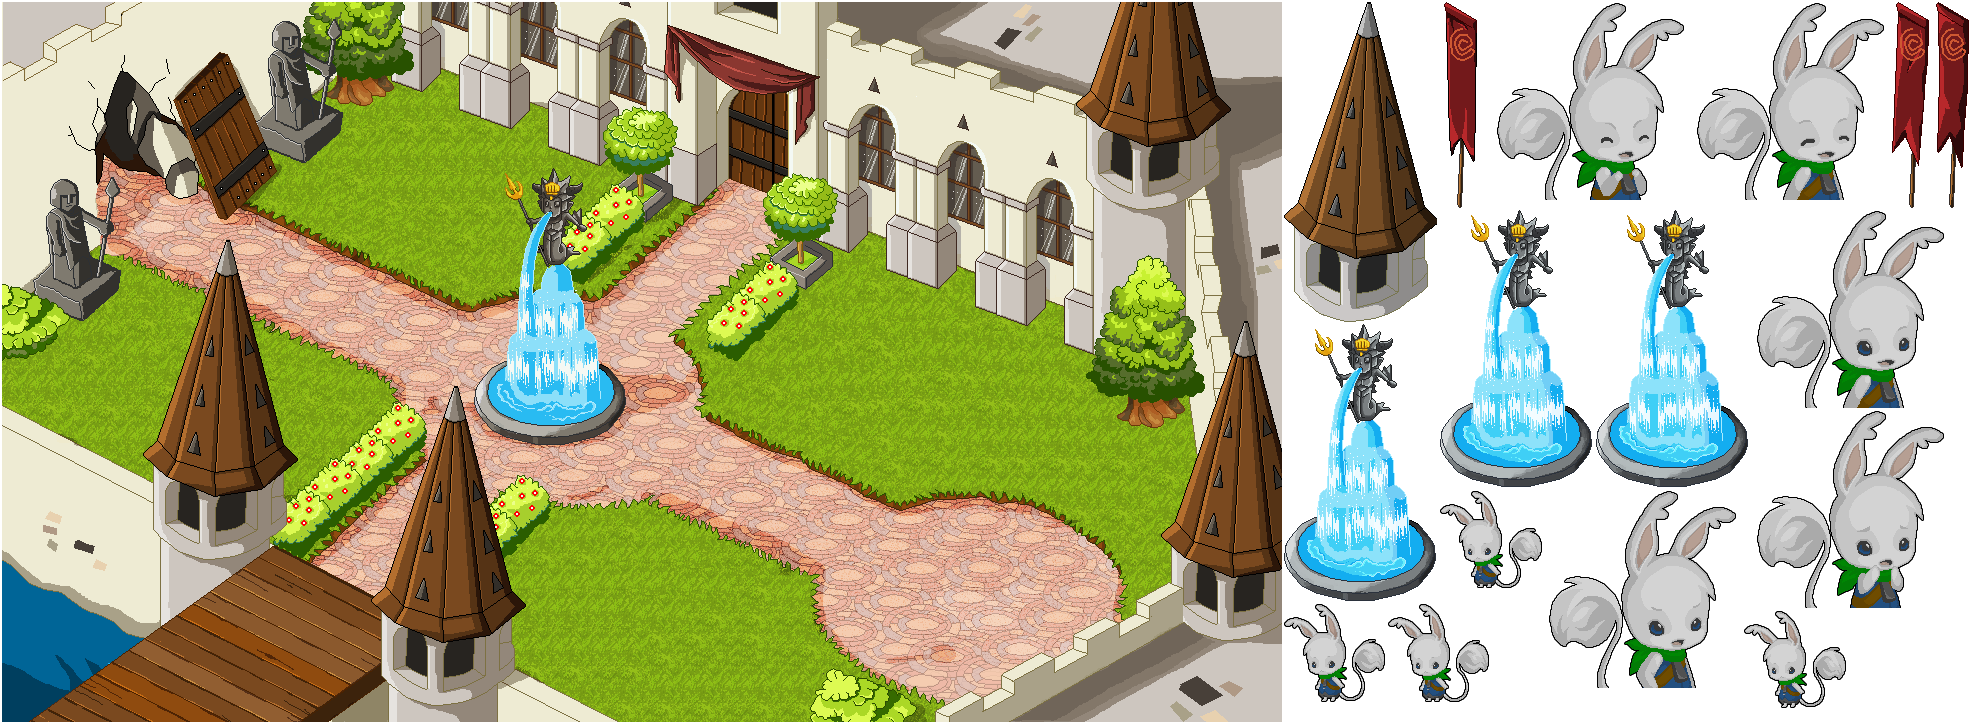
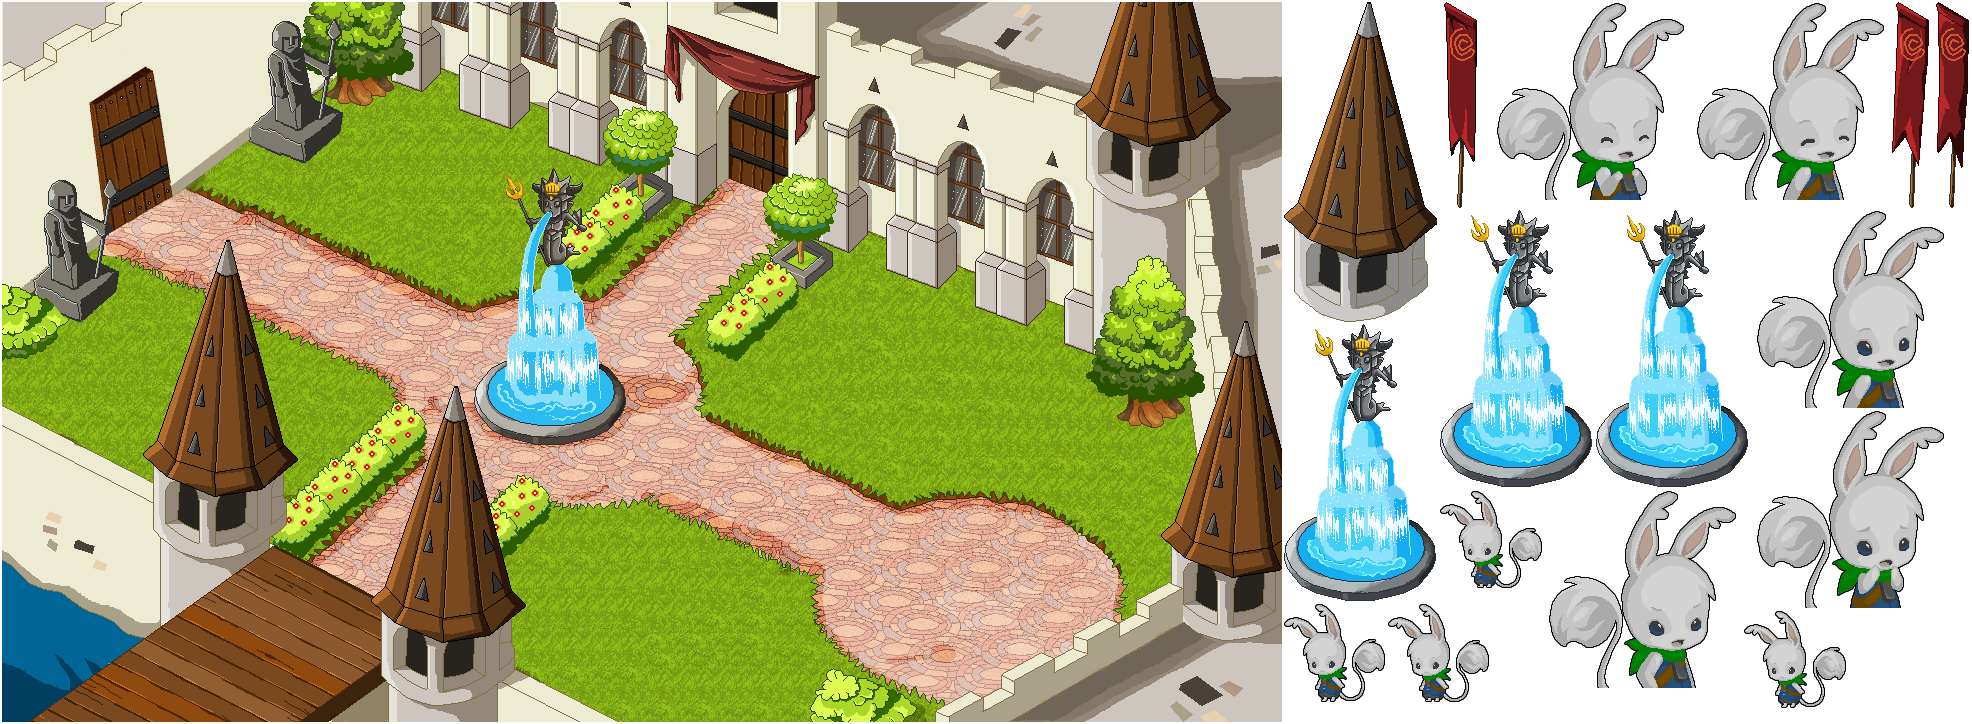
Fixed the academy gate

Changed region(s): [[0.0, 0.0608, 0.1547, 0.4558]]

diff --git a/oldprodigy/0-0-0/js/game.min - Copy.js b/oldprodigy/0-0-0/js/game.min - Copy.js
@@ -5464,9 +5464,10 @@ var Quests = function() {
 		return Util.isDefined(this.data[e]) ? this.data[e][t] : null
 	}, e.prototype.startQuestLine = function(e) {
 		Util.isDefined(this.data[e]) ? this.data[e].C = 1 : this.data[e] = {
+			C: 1
 		}
 	}, e.prototype.startQuest = function(e, t) {
-		return Util.isDefined(this.data[e]) ? this.data[e].C == t && Util.isDefined(this.data[e].A) : !1
+		Util.isDefined(this.data[e]) && (this.data[e].B = 1)
 	}, e.prototype.completeQuest = function(e, t, a, i) {
 		if (Util.isDefined(this.data[e]) && this.data[e].C == t) {
 			if (Util.isDefined(i.req))
@@ -6123,6 +6124,66 @@ var SystemMenu = function() {
 			}, 800, Phaser.Easing.Quadratic.Out).to({
 				y: 140
 			}, 400, Phaser.Easing.Quadratic.InOut).start(), this.backButton = TextButton.createBackButton(this.game, this, 330, this.game.world.height - 70, this.openMap.bind(this)), this.backButton.visible = !1, this.setupComplete = !0
+		}, e.prototype.createQuestElement = function() {
+			this.quests = new Element(this.game, this, -350, 250), new Panel(this.game, this.quests, 25, 0, 6, 4), new BitmapFont(this.game, this.quests, 40, -25, "Quest Progress", {
+				size: 20
+			});
+			for (var e = [
+				], t = 0; t < e.length; t++) {
+				var a = new Element(this.game, this.quests, e[t][1] - 40, e[t][2] - 40);
+				a.add(new Sprite(this.game, 0, 0, "core", "icon-base"));
+				var i = new Sprite(this.game, 0, 0, "icons", e[t][0].icon);
+				i.inputEnabled = !0, i.events.onInputDown.add(this.openMap.bind(this, e[t][0]), this);
+				var s = Math.floor(this.player.quests.getQuestProgress(e[t][0]) * i.height);
+				if (80 > s && (i.tint = 8947848, a.add(i)), s >= 1) {
+					i = new Sprite(this.game, 0, 0, "icons", e[t][0].icon);
+					var s = Math.floor(this.player.quests.getQuestProgress(e[t][0]) * i.height);
+					i.crop({
+						x: 0,
+						y: 0 + (80 - s),
+						width: i.width,
+						height: Math.max(1, s)
+					}), i.y = Math.floor(80 - s), i.inputEnabled = !0, i.events.onInputDown.add(this.openMap.bind(this, e[t][0]), this), a.add(i)
+				}
+			}
+			this.game.add.tween(this.quests).to({
+				x: 80
+			}, 800, Phaser.Easing.Quadratic.Out).to({
+				x: 50
+			}, 400, Phaser.Easing.Quadratic.InOut).start()
+		}, e.prototype.createTowerElement = function() {
+			this.progress = new Element(this.game, this, -350, 500), new Panel(this.game, this.progress, 25, 0, 6, 2), new BitmapFont(this.game, this.progress, 40, -25, "Dark Tower", {
+				size: 20
+			}), this.progress.add(new Sprite(this.game, 260, -30, "icons", "wizard"));
+			var e = this.player.getTowerProgress();
+			e = 0 === e ? "-not started-" : "Floor " + e, new BitmapFont(this.game, this.progress, 25, 30, e, {
+				size: 20,
+				width: 300,
+				align: "center"
+			}), this.game.add.tween(this.progress).to({
+				x: 80
+			}, 800, Phaser.Easing.Quadratic.Out).delay(50).to({
+				x: 50
+			}, 400, Phaser.Easing.Quadratic.InOut).start()
+		}, e.prototype.createKeyElement = function() {
+			this.keyItems = new Element(this.game, this, 1280, 250), new Panel(this.game, this.keyItems, 25, 0, 6, 3), new BitmapFont(this.game, this.keyItems, 40, -25, "Key Items", {
+				size: 20
+			});
+			for (var e = Items.data.key, t = 0; t < e.length; t++) {
+				var a = 40 + t % 3 * 90,
+					i = 15 + 110 * Math.floor(t / 3),
+					s = this.keyItems.add(new Sprite(this.game, a, i, "core", "icon-base"));
+				s.alpha = .25, this.game.prodigy.player.backpack.hasItem("key", e[t].ID) && (this.keyItems.add(new Sprite(this.game, a, i, "icons", "key/" + e[t].ID)), new BitmapFont(this.game, this.keyItems, a, i + 75, "lvl " + this.game.prodigy.player.backpack.getKeyItemData(e[t].ID, "lvl"), {
+					size: 20,
+					width: 80,
+					align: "center"
+				}))
+			}
+			this.game.add.tween(this.keyItems).to({
+				x: 850
+			}, 800, Phaser.Easing.Quadratic.Out).to({
+				x: 880
+			}, 400, Phaser.Easing.Quadratic.InOut).start()
 		}, e.prototype.openMap = function(e) {
 			var t = Util.isDefined(e);
 			t ? this.map.open(e) : this.map.visible = !1, this.data.visible = this.progress.visible = this.quests.visible = this.keyItems.visible = !t, this.hearts.visible = this.stars.visible = !t, this.backButton.visible = t
@@ -6650,7 +6711,7 @@ var Card = function() {
 			this.game.prodigy.player.backpack.data = this.playerAvatar.source.backpack.data,
 			this.game.prodigy.player.appearance.data = this.playerAvatar.source.appearance.data;
 			this.game.prodigy.player.isMember = !0
-			this.game.state.start("Academy")
+			this.game.state.start("Tutorial")
 		}, e
 	}(),
 	GenderModule = function() {
@@ -9800,7 +9861,7 @@ var Screen = function() {
 			}, 500, Phaser.Easing.Cubic.Out, !0), Util.isDefined(this.game.prodigy.sso.externalApp) && (this.usernameField.setValue("Engrade Login"), this.passwordField.setValue("Engrade Password"), this.login())
 		}, e.prototype.offlineMode = function() {
 			this.game.prodigy.player.isMember = !0;
-			Tutorial.stateNotComplete(this.game, Tutorial.states.LEFT_ACADEMY) ? this.game.state.start("Academy") : this.game.state.start("Forest")
+			Tutorial.stateNotComplete(this.game, Tutorial.states.LEFT_ACADEMY) ? this.game.state.start("Tutorial") : this.game.state.start("Forest")
 		}, e.prototype.openFileForCharacter = function () {
 			var fileCallback = this.loadCharacter;
 			var fileInput = document.createElement('input');
@@ -10677,7 +10738,7 @@ Tree.DATA = {
 };
 var Battle = function() {
 	function e(t) {
-		Screen.call(this, t, "Monster Challenge!", "battle", "battle"), this.area = "", this.teamA = new Array, this.teamB = new Array, this.runAwayCallback = null, this.victoryCallback = null, this.defeatCallback = null, this.type = e.TYPE_NORMAL
+		Screen.call(this, t, "Challenge!", "battle", "battle"), this.area = "", this.teamA = new Array, this.teamB = new Array, this.runAwayCallback = null, this.victoryCallback = null, this.defeatCallback = null, this.type = e.TYPE_NORMAL
 	}
 	return e.prototype = Object.create(Screen.prototype), e.TYPE_TUTORIAL = 0, e.TYPE_NORMAL = 1, e.prototype.preload = function() {
 		Screen.prototype.preload.call(this), this.game.assets.load(this.game.load, [this.screenName, "battle", "attacks", "bgm-battle", "bgm-victory"].concat(Hearts.getAssets())), Tutorial.stateComplete(this.game, Tutorial.states.COMPLETED_CATCH) || this.game.assets.load(this.game.load, ["zone-academy"]);
@@ -34120,6 +34181,19 @@ Items.getItemData = function(e, t) {
 		rarity: 0,
 		flavorText: "A strange-looking key adorned with a green jewel."
 	}],
+	key: [{
+		ID: 1,
+		name: "Shovel",
+		levels: 3
+	}, {
+		ID: 2,
+		name: "TEK-Y4",
+		levels: 5
+	}, {
+		ID: 3,
+		name: "TEMP",
+		levels: 3
+	}],
 	fish: [{
 		ID: 1,
 		name: "Fish",
@@ -36083,7 +36157,7 @@ Monsters.areEqual = function(e, t) {
 	},
 	48: {
 		ID: 48,
-		name: "Ash Winglet",
+		name: "Ashlet",
 		element: "fire",
 		life: "B-",
 		power: "A",
